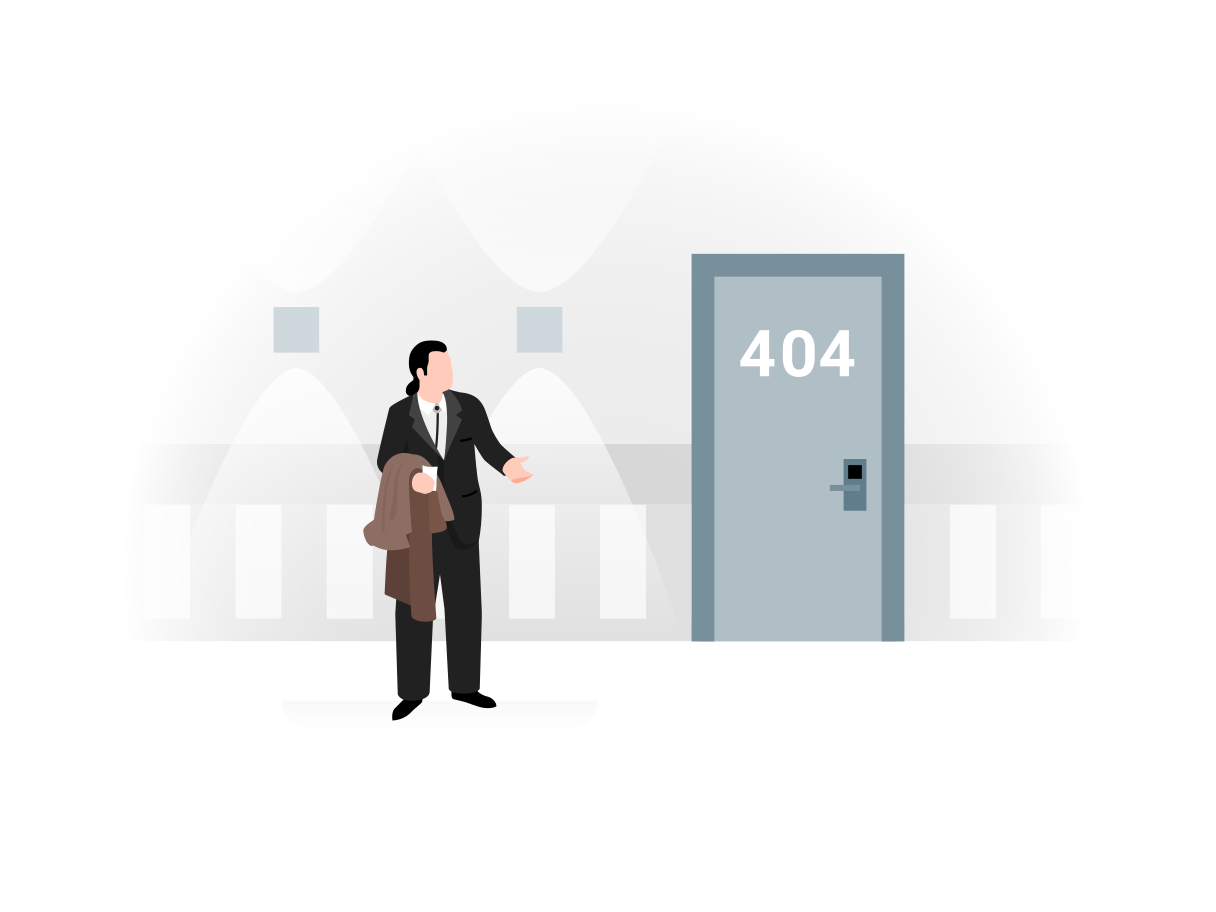
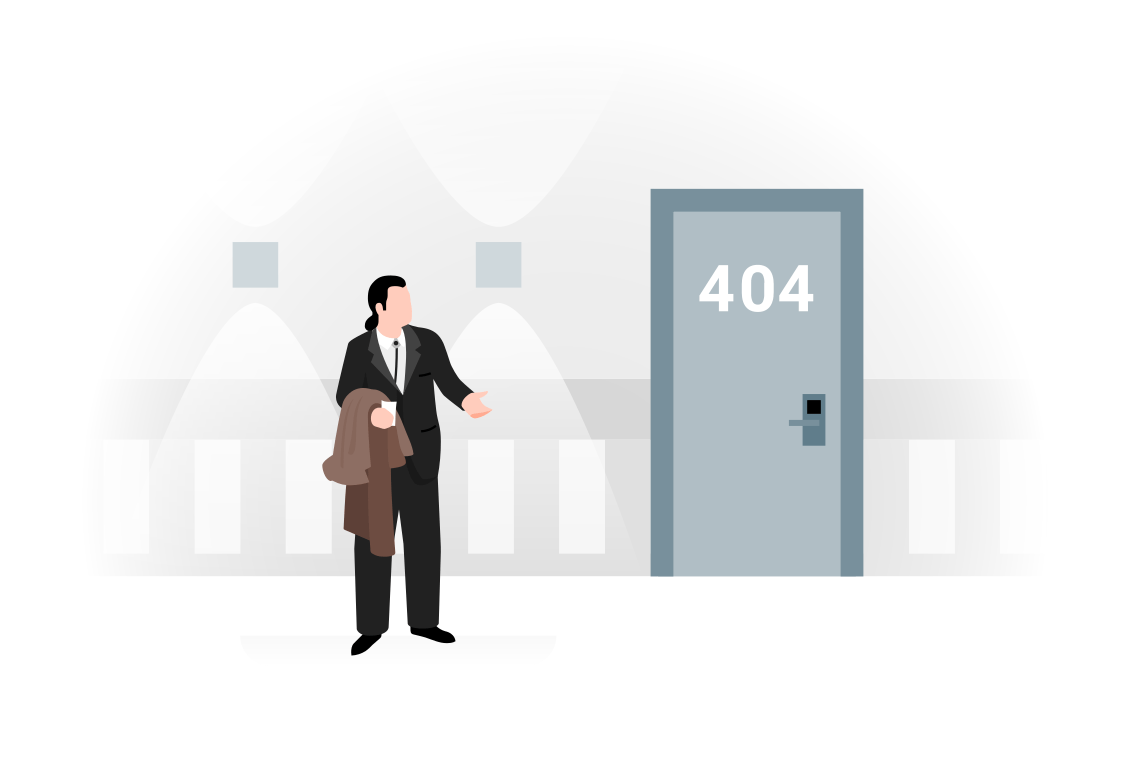
refactor: edit NotFoundPage, fix query in checkbox

diff --git a/src/components/Content/Content.tsx b/src/components/Content/Content.tsx
@@ -90,6 +90,7 @@ export const Content = ({ products }: { products: ProductResponse[] }) => {
 
   const resetFilters = () => {
     setsortProducts(products);
+    setSearchParams({});
     setFiltersBrand([]);
     setFiltersCategory([]);
     setMinValuePrice(
@@ -242,12 +243,12 @@ export const Content = ({ products }: { products: ProductResponse[] }) => {
               <button
                 className="controls__view-button"
                 onClick={() => {
-                setIsList(!isList);
-                setSearchParams({ view: isList ? "block" : "list" });
-              }}
-            >
-              <img src={isList ? cardImg : listImg} alt="view" />
-            </button>
+                  setIsList(!isList);
+                  setSearchParams({ view: isList ? "block" : "list" });
+                }}
+              >
+                <img src={isList ? cardImg : listImg} alt="view" />
+              </button>
             </div>
           </div>
           {sortProducts.length ? (

diff --git a/src/components/Checkbox/Checkbox.tsx b/src/components/Checkbox/Checkbox.tsx
@@ -38,7 +38,6 @@ export function Checkbox({
         [params]: addParams,
         [name]: (searcParams.get(name) || "") + ";" + category,
       });
-      console.log(searcParams);
     } else {
       removeFilter(event.currentTarget.name, event.currentTarget.value);
       setSearchParams({
@@ -56,7 +55,7 @@ export function Checkbox({
         id={category}
         name={name}
         value={category}
-        checked={filtersArray.includes(category) || isChecked}
+        checked={filtersArray.includes(category)}
         onChange={checkboxClickHandler}
       />
       {category}

diff --git a/src/pages/NotFoundPage/NotFoundPage.css b/src/pages/NotFoundPage/NotFoundPage.css
@@ -1,3 +1,7 @@
+main {
+  flex: 1 1 auto;
+}
+
 .not-found__container {
   display: flex;
   flex-direction: column;
@@ -8,15 +12,17 @@
 
 .not-found__img {
   display: block;
-  height: 600px;
+  height: 500px;
   flex: 1 1 auto;
   margin: 0 auto auto;
 }
 
 .not-found__text {
-  font-size: 36px;
+  font-size: 34px;
   font-weight: 700;
+  width: -webkit-fit-content;
+  width: -moz-fit-content;
   width: fit-content;
-  margin: 100px auto 0;
+  margin: 70px auto 0;
   color: #3e4753;
 }

diff --git a/src/pages/NotFoundPage/NotFoundPage.tsx b/src/pages/NotFoundPage/NotFoundPage.tsx
@@ -7,8 +7,10 @@ export function NotFoundPage() {
   return (
     <div className="not-found__container">
       <Header />
-      <p className="not-found__text">Ops... This page not found</p>
-      <img src={notFoundImg} alt="" className="not-found__img" />
+      <main>
+        <p className="not-found__text">Ops... This page not found</p>
+        <img src={notFoundImg} alt="" className="not-found__img" />
+      </main>
       <Footer />
     </div>
   );
